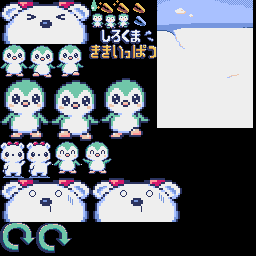
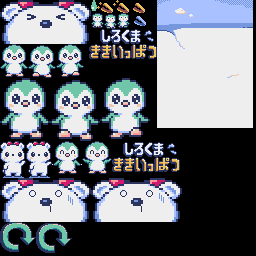
アニメーション追加

Changed region(s): [[0.4375, 0.5312, 0.7188, 0.6875]]

diff --git a/app.py b/app.py
@@ -250,8 +250,8 @@ class App:
             self.show_retry()
 
     def show_splash(self):
-        self.image.draw(ImageName.Bear_01, 36, 41)
-        self.image.draw(ImageName.Logo, 14, 85)
+        self.image.draw(ImageName.Bear_01, 36, 35)
+        self.image.draw(ImageName.Logo_01, 14, 81)
 
     def show_prologue(self):
         self.timeline.play(TimelineName.Prologue)
@@ -275,9 +275,8 @@ class App:
         # 成功・失敗のメッセージを描画
         pyxel.text(110 / 5, 180 / 5, message, 1)
 
-        pyxel.text(350 / 5, 10 / 5, f"LT: {time_left // 30}", 1)  # 残り時間
-        pyxel.text(350 / 5, 50 / 5, f"SP: {special_count}", 1)
-        pyxel.text(350 / 5, 30 / 5, f"SC: {success_count}", 1)
+        pyxel.text(68, 8, f"TIME:{time_left // 30}", 1)  # 残り時間
+        pyxel.text(68, 15, f"LEFT:{success_count}", 1)
 
     def draw_tweezer(self):
         if tweezer_count >= 1:

diff --git a/image.py b/image.py
@@ -20,7 +20,8 @@ class ImageName(IntEnum):
     PenguinL_01 = auto()
     PenguinL_02 = auto()
     PenguinL_03 = auto()
-    Logo = auto()
+    Logo_01 = auto()
+    Logo_02 = auto()
     BG_01 = auto()
     Bear = auto()
     Bear_01 = auto()
@@ -116,7 +117,8 @@ class ImageManager:
         )
         self.assets[ImageName.PenguinL_03] = ImageInfo(0, 100, 78, 50, 63)
 
-        self.assets[ImageName.Logo] = ImageInfo(0, 89, 29, 68, 30)
+        self.assets[ImageName.Logo_01] = ImageInfo(0, 89, 29, 68, 31, ImageName.Logo_02)
+        self.assets[ImageName.Logo_02] = ImageInfo(0, 112, 141, 68, 31)
         self.assets[ImageName.BG_01] = ImageInfo(0, 157, 0, 96, 128)
         self.assets[ImageName.Bear] = ImageInfo(0, 0, 141, 26, 37)
         self.assets[ImageName.Bear_01] = ImageInfo(0, 0, 141, 26, 37, ImageName.Bear_02)
